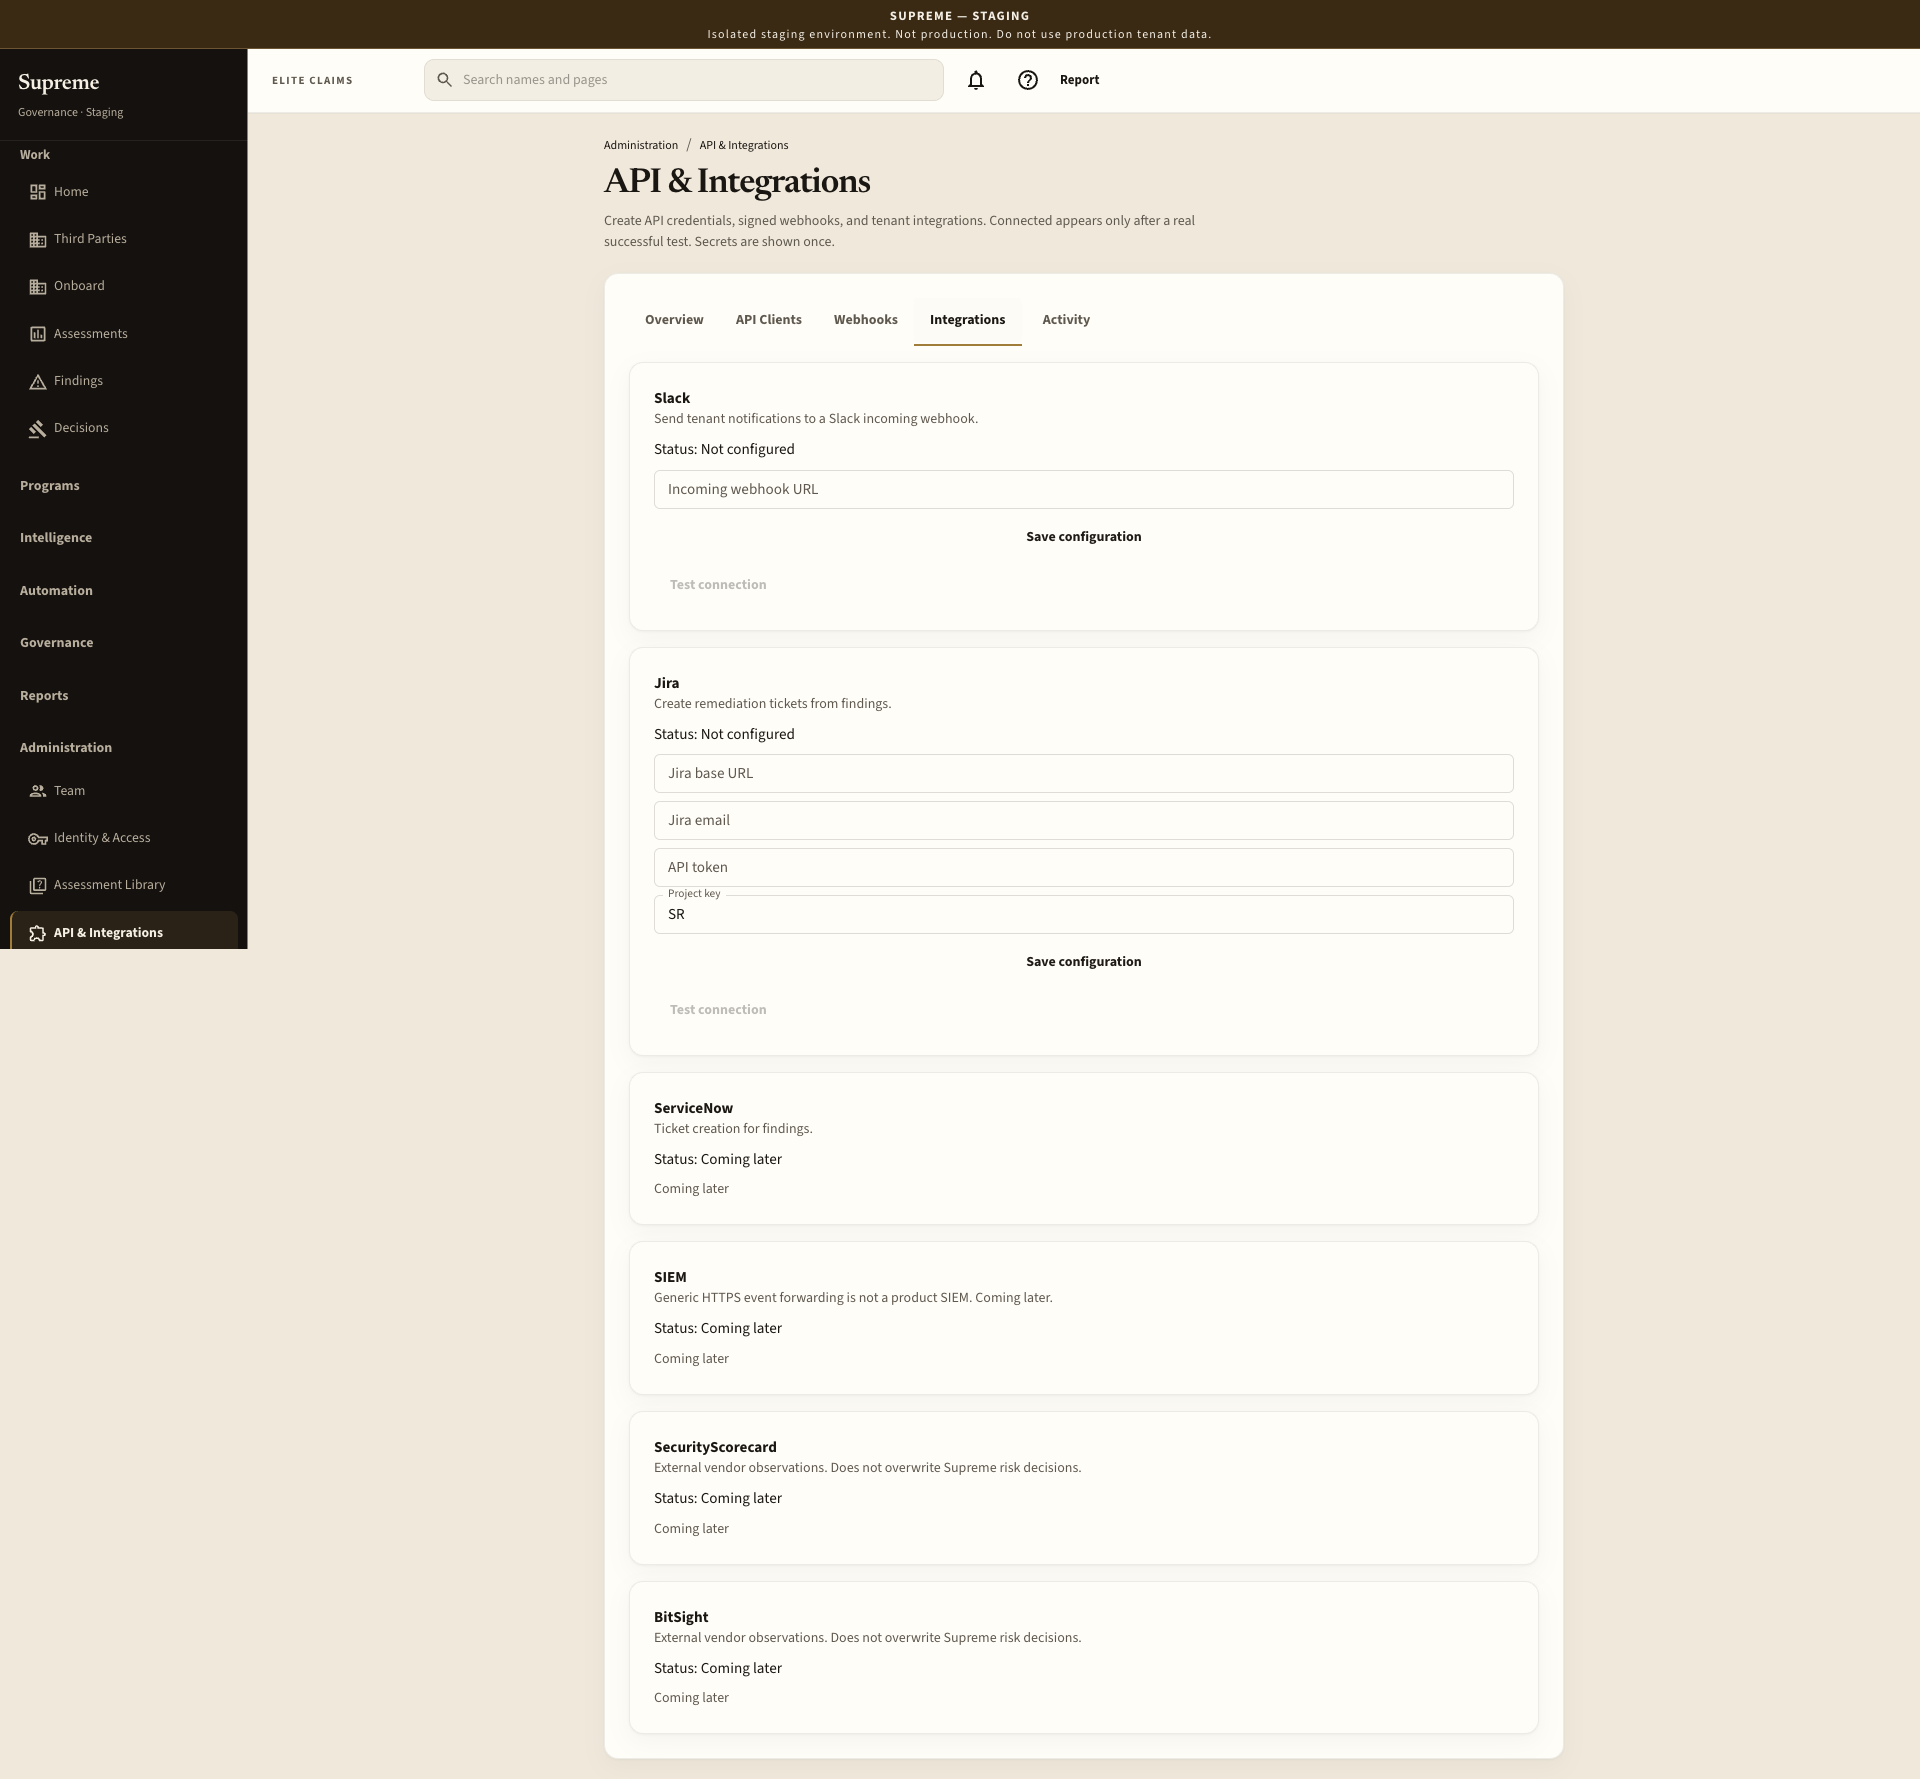
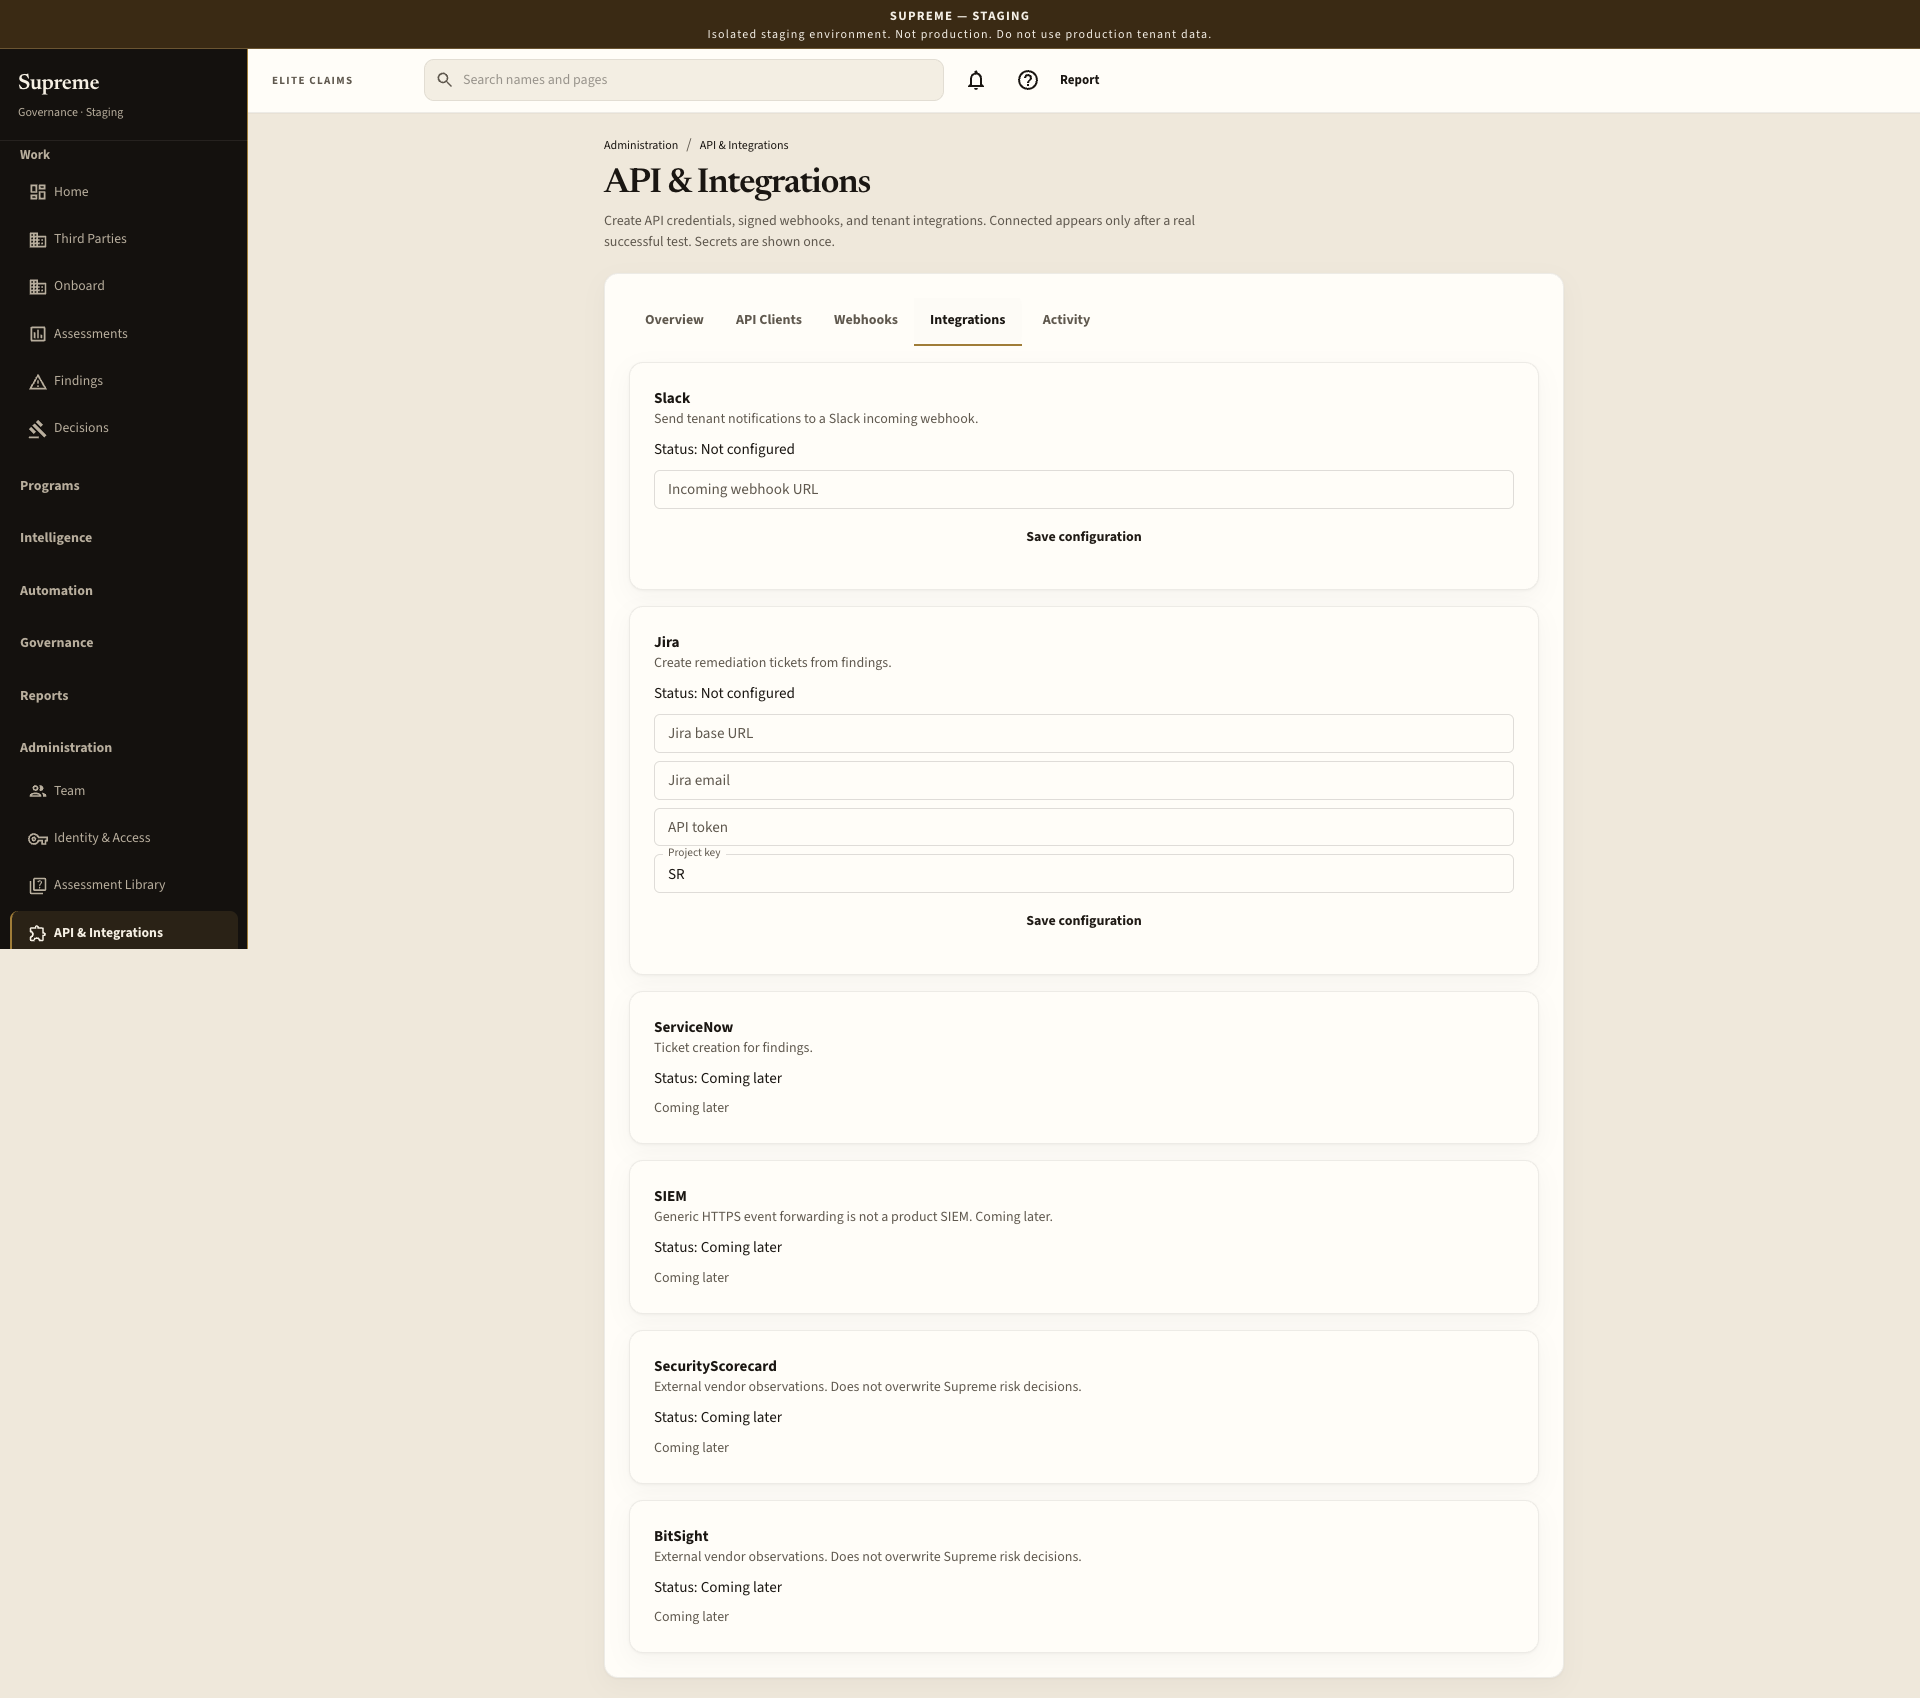
Record #22 hosted recertification on frontend 7feb92d and API 340f908.
Keep Product Leadership review open. Do not declare #22 PASS.

diff --git a/docs/private-beta/hosted-ux-qa/api-integrations/README.md b/docs/private-beta/hosted-ux-qa/api-integrations/README.md
@@ -1,60 +1,91 @@
 # Hosted #22 API / Webhooks / Integrations
 
-**Implementation SHA:** `340f90818d9278a5173be3ca7be8eabba585f0cd`  
-**Frontend hosted SHA:** `340f90818d9278a5173be3ca7be8eabba585f0cd`  
-**API hosted SHA:** `340f90818d9278a5173be3ca7be8eabba585f0cd`  
+**Status:** ACTIVE — PRODUCT LEADERSHIP REVIEW REQUIRED. #22 PASS is not declared.
+
+**Implementation SHA (honesty/UI):** `7feb92de70cacfc954dc6632dbf862b61549ca53`  
+**Backend / hosted API SHA:** `340f90818d9278a5173be3ca7be8eabba585f0cd`  
+**Hosted frontend SHA:** `7feb92de70cacfc954dc6632dbf862b61549ca53`  
 **Frontend:** https://supreme-risk-staging.onrender.com  
 **API:** https://supreme-risk-staging-api.onrender.com  
-**CI:** https://github.com/Sinfosecurity/GRC-Sinfosecurity-/actions/runs/35384963420  
-**Deploy:** API `dep-damorrjtqb8s73brs14g` live. Frontend auto-deployed the same SHA.  
-**Health:** `/health/basic` ok. `/health` degraded for Mongo NOT_CONFIGURED, email DEGRADED, AI NOT_CONFIGURED, and heap ratio. Redis, storage, malware, automation, and Stripe test mode were up.  
-**#22 PASS:** NOT DECLARED  
-**LIVE PROVIDER TEST:** NOT TESTED  
+**CI (implementation 7feb92d):** https://github.com/Sinfosecurity/GRC-Sinfosecurity-/actions/runs/35387085923 SUCCESS  
+**CI (backend 340f908):** https://github.com/Sinfosecurity/GRC-Sinfosecurity-/actions/runs/35384963420 SUCCESS  
+**Deploy:** Frontend `dep-dampdsqjnfac73akjif0` live on `7feb92d`. API `dep-damorrjtqb8s73brs14g` live on `340f908`. SHA split is legitimate: `7feb92d` is frontend/QA only.  
+**Health:** `/health/basic` ok. `/health` degraded for Mongo and AI NOT_CONFIGURED. Postgres, Redis, email, Stripe, storage, malware, and automation were up.  
+**Migration:** additive `20260918190000_public_api_webhooks_integrations` exercised by live public API, webhook, and catalog routes.  
+**Production touched:** NO  
+
+**LIVE SLACK VALIDATION:** NOT TESTED  
+**LIVE JIRA VALIDATION:** NOT TESTED  
+**VIEWER HOSTED RBAC:** NOT TESTED / SKIPPED  
 
 Architecture: `docs/API-INTEGRATIONS.md`. Internal `/api/v1` session routes are not this item.
 
-Mutating API and webhook checks used disposable walk organizations. Elite Claims was used only for the administration UI screenshots. No Slack or Jira credentials were supplied.
+Recertification command (2026-09-18):
+
+```
+python3 scripts/hosted-api-integrations-qa.py
+```
+
+Hosted SHA recorded by the script: frontend `7feb92d`, API `340f908`. Script result: **30 PASS / 0 FAIL / 2 SKIP** (viewer invite, axe CSP). Follow-up public-token/SSRF walk added 9 PASS and 1 SKIP (expired credential).
+
+Mutating API and webhook checks used disposable walk organizations. Elite Claims / report-proof was used only for administration UI screenshots. No Slack or Jira credentials were supplied.
 
 ## Public API golden journey
 
-Proved on hosted staging SHA `340f908`:
+Proved on hosted API `340f908` with frontend honesty `7feb92d`:
 
 1. Create API client — secret `srk_…` returned once
 2. List clients — secret not re-listed
-3. POST `/public/v1/vendors` without `vendors:write` — 403
-4. POST `/public/v1/vendors` with write scope — 201
-5. Retry with the same `Idempotency-Key` — same vendor id
-6. Tenant B credential GET Tenant A vendor — 404
-7. Revoke client — subsequent GET `/public/v1/vendors` — 401
-8. `/public/v1/docs` and `/public/v1/openapi.json` — 200, vendors documented, platform routes absent
+3. GET `/public/v1/vendors` with `vendors:read` — 200
+4. POST `/public/v1/vendors` without `vendors:write` — 403
+5. POST `/public/v1/vendors` with write scope — 201
+6. Retry with the same `Idempotency-Key` — same vendor id
+7. Tenant B credential GET Tenant A vendor — 404
+8. Revoke client — subsequent GET `/public/v1/vendors` — 401
+9. `/public/v1/docs` and `/public/v1/openapi.json` — 200, vendors documented, platform / identity / support routes absent
+10. Public token GET `/api/v1/developer/overview` — 401
+11. Public token GET `/api/v1/identity/overview` — 401
+12. Public token POST `/api/v1/users/invite` — 401
+13. Public token GET `/api/v1/platform/overview` — 401
+14. Public token GET `/api/v1/support/tickets` — 401
+
+Expired credential: NOT TESTED (no safe hosted TTL mutation).
 
 ## Webhook golden journey
 
 1. Create HTTPS sink endpoint — `whsec_…` shown once, not re-listed
 2. Subscribe to `third_party.created`
 3. Public API vendor create emitted the event
-4. Delivery `DELIVERED`, HTTP 200, duration recorded, event id `evt_a2db604811a0`
-5. Signature headers present (`X-Supreme-Signature`, timestamp, event id)
-6. Forced `failOnce=1` produced FAILED
-7. Manual retry kept the same logical event id
-8. Disable endpoint — later vendor create added no delivery (`3→3`)
+4. Delivery `DELIVERED`, HTTP 200, event id `evt_de3660cdd7f1`
+5. Forced `failOnce=1` produced FAILED
+6. Manual retry kept the same logical event id
+7. Disable endpoint — later vendor create added no delivery (`3→3`)
+8. SSRF create denied: `127.0.0.1`, `localhost`, `169.254.169.254` → 400; `http://` → 400
 
-HMAC algorithm and replay window are covered by backend tests. The staging sink stores parsed JSON, so byte-exact re-hash of a stored receipt is not a substitute for raw-body verification on a customer receiver.
+HMAC algorithm and replay window are covered by backend tests. Delivery uses `redirect: 'error'`. The staging sink stores parsed JSON, so byte-exact re-hash of a stored receipt is not a substitute for raw-body verification on a customer receiver.
 
-## Integration golden journey
+## Integration honesty
 
-Slack and Jira are configurable. ServiceNow, SIEM, SecurityScorecard, and BitSight show **Coming later**. Slack test without configuration returned 409. No provider card showed Connected.
+| Provider | Configuration | UI state | Test Connection | Live test | Result |
+| --- | --- | --- | --- | --- | --- |
+| Slack | Configurable incoming webhook | Not configured | No | NOT TESTED | Honest |
+| Jira | Configurable Cloud REST | Not configured | No | NOT TESTED | Honest |
+| ServiceNow | Coming later | Coming later | No | NOT TESTED | Honest |
+| SIEM | Placeholder / not a product SIEM | Coming later | No | NOT TESTED | Honest |
+| SecurityScorecard | Coming later / observations only | Coming later | No | NOT TESTED | Honest |
+| BitSight | Coming later / observations only | Coming later | No | NOT TESTED | Honest |
 
-**LIVE PROVIDER TEST: NOT TESTED** — no Slack incoming webhook or Jira token was available.
+Slack test without configuration returned **409**. No provider card showed Connected. `Test connection` count on hosted Integrations was **0**.
 
 ## UI / RBAC / responsive
 
 - Administration → API & Integrations
 - Tabs: Overview, API Clients, Webhooks, Integrations, Activity
-- Responsive shots: 375 / 768 / 1024 / 1440 / 1920
+- Responsive shots: 375 / 768 / 1024 / 1440 / 1920 plus `integrations-375.png`
+- 375px Integrations: all tabs present, no Test Connection, no horizontal overflow
 - axe skipped: hosted CSP blocks inline script injection
 - Organization Admin can open the page (`integration.manage`)
-- Viewer/analyst hosted sessions were not separately logged in
+- Viewer hosted RBAC: SKIPPED — invite 201 sent, no activation token returned
 
 ## Screenshot index
 
@@ -66,6 +97,7 @@ Slack and Jira are configurable. ServiceNow, SIEM, SecurityScorecard, and BitSig
 - `clients-1440.png`
 - `webhooks-1440.png`
 - `integrations-1440.png`
+- `integrations-375.png`
 - `activity-1440.png`
 
 Raw API secrets and webhook signing secrets are not in this folder.

diff --git a/docs/SUPREME-PROGRAM-STATE.md b/docs/SUPREME-PROGRAM-STATE.md
@@ -10,7 +10,7 @@ This file records **program acceptance**. Engineering may return hosted evidence
 
 **CURRENT ITEM:** #22 API / Webhooks / Integrations. #12 and #21 are ACCEPTED FOR CURRENT STAGE. #21 live IdP federation is deferred. Unnumbered Supreme UI 2.0 remains Product Leadership review open. H-5 and H-6 remain OPEN. #23–#38 and #40 are not authorized.
 
-**CURRENT ITEM STATUS:** #22 ACTIVE / ENGINEERING IN PROGRESS. UI 2.0 ENGINEERING PARTIAL / PRODUCT LEADERSHIP REVIEW OPEN. Cursor does not declare Supreme UI 2.0 accepted, #12 PASS, #21 PASS, #22 PASS, H-5 CLOSED, H-6 CLOSED, commercial GO, or production ready.
+**CURRENT ITEM STATUS:** #22 ACTIVE — PRODUCT LEADERSHIP REVIEW REQUIRED. UI 2.0 ENGINEERING PARTIAL / PRODUCT LEADERSHIP REVIEW OPEN. Cursor does not declare Supreme UI 2.0 accepted, #12 PASS, #21 PASS, #22 PASS, H-5 CLOSED, H-6 CLOSED, commercial GO, or production ready.
 
 **VERSION 3 CHECKPOINT SHA:** `d7692ab011356c51582e4de89573b9580bb85be9`
 
@@ -30,7 +30,7 @@ This file records **program acceptance**. Engineering may return hosted evidence
 
 **#21:** ACCEPTED FOR CURRENT STAGE / LIVE FEDERATION DEFERRED (Product Leadership 2026-09-18). Hosted origin correction `e19f8bde268d668518b848acd6086d7723f7177d`. Live IdP federation remains a later gate. Cursor does not declare #21 PASS.
 
-**#22:** ACTIVE / ENGINEERING IN PROGRESS. Implementation and hosted frontend/API `340f90818d9278a5173be3ca7be8eabba585f0cd`. Architecture `docs/API-INTEGRATIONS.md`. Hosted walk `docs/private-beta/hosted-ux-qa/api-integrations/`. Live Slack/Jira NOT TESTED. Cursor does not declare #22 PASS. #23–#38 and #40 are not authorized.
+**#22:** ACTIVE — PRODUCT LEADERSHIP REVIEW REQUIRED. Honesty/UI implementation and hosted frontend `7feb92de70cacfc954dc6632dbf862b61549ca53`. Hosted API `340f90818d9278a5173be3ca7be8eabba585f0cd`. Architecture `docs/API-INTEGRATIONS.md`. Hosted recertification `docs/private-beta/hosted-ux-qa/api-integrations/`. Live Slack/Jira NOT TESTED. Viewer hosted RBAC SKIPPED. Cursor does not declare #22 PASS. #23–#38 and #40 are not authorized.
 
 **#12:** ACCEPTED FOR CURRENT STAGE / SUBJECT TO FUTURE REVISION IF NEEDED (Product Leadership 2026-09-18). Not commercial GO. Not production deployment. Not immutable. Hosted frontend `548cd19a893c35b9fb06059213c99fbfd0b9e495`. Hosted API `b00ad1274908a27a2253d6e5050420e2c10b8f39`. Navigation audit `docs/private-beta/hosted-ux-qa/navigation-audit/`. Cursor does not declare #12 PASS. Do not reopen #12 in this gate.
 

diff --git a/docs/SUPREME-MASTER-PUNCH-LIST.md b/docs/SUPREME-MASTER-PUNCH-LIST.md
@@ -397,11 +397,11 @@ Statuses below are **program acceptance**, not conversational memory. Implementa
 
 **DEFINITION OF DONE:** Documented external API with tenant auth; integrations are NOT_CONFIGURED when keys are absent.
 
-**CURRENT STATUS:** ACTIVE / ENGINEERING IN PROGRESS. Hosted staging proof recorded. Not PASS.
+**CURRENT STATUS:** ACTIVE — PRODUCT LEADERSHIP REVIEW REQUIRED. Hosted recertification recorded. Not PASS.
 
-**CERTIFICATION SHA:** Implementation and hosted frontend/API `340f90818d9278a5173be3ca7be8eabba585f0cd`. Not a PASS SHA.
+**CERTIFICATION SHA:** Honesty/UI implementation and hosted frontend `7feb92de70cacfc954dc6632dbf862b61549ca53`. Hosted API `340f90818d9278a5173be3ca7be8eabba585f0cd`. SHA split is legitimate (`7feb92d` is frontend/QA only). Not a PASS SHA.
 
-**EVIDENCE:** Architecture `docs/API-INTEGRATIONS.md`. Hosted walk `docs/private-beta/hosted-ux-qa/api-integrations/`. Internal `/api/v1` session routes are not this item. Live Slack/Jira NOT TESTED.
+**EVIDENCE:** Architecture `docs/API-INTEGRATIONS.md`. Hosted recertification `docs/private-beta/hosted-ux-qa/api-integrations/`. CI https://github.com/Sinfosecurity/GRC-Sinfosecurity-/actions/runs/35387085923 SUCCESS. Public token ≠ session/admin/platform. Live Slack/Jira NOT TESTED. Viewer hosted RBAC SKIPPED.
 
 **NEXT ACTION:** Product Leadership review of the hosted public API, webhook, and honest integration proof. Do not start #23–#38 or #40. Do not merge `main` or deploy commercial production. Do not declare #22 PASS.
 
